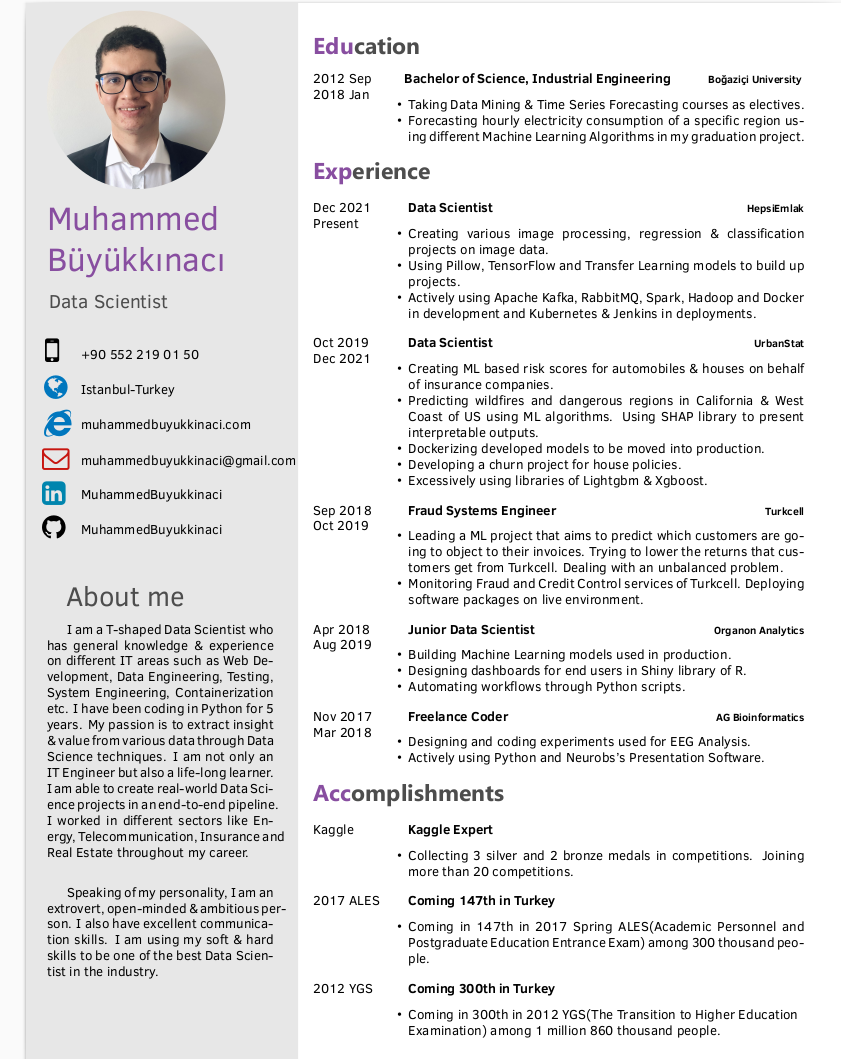
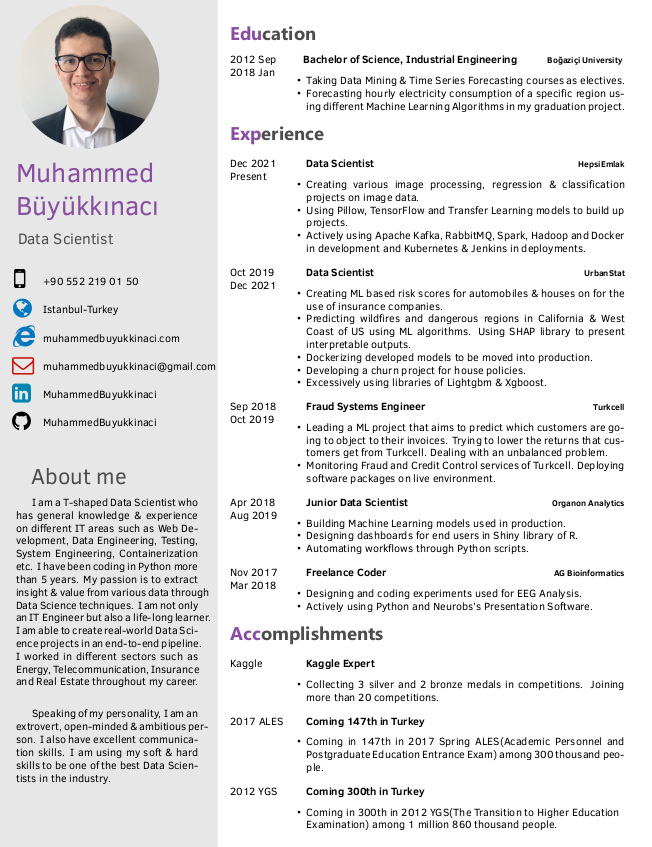
Some fixes for writing

diff --git a/DS_tex_file.tex b/DS_tex_file.tex
@@ -26,7 +26,7 @@
 		\textbf{~~~~~Scikit-~~~~~~}\\\textbf{~~~Learn~~~},
 		\textbf{~~~Django~~~~},
 		\textbf{~~~~PyTest~~~~},
-        \textbf{~~XGBoost~~},
+        \textbf{~~Xgboost~~},
         \textbf{~~~~Lightgbm~~~~}
     }
 }
@@ -75,9 +75,9 @@
 \cvmail{muhammedbuyukkinaci@gmail.com} % Email address
 
 \aboutme{
-I am a T-shaped Data Scientist who has general knowledge \& experience on different IT areas such as Web Development, Data Engineering, Testing, System Engineering, Containerization etc. I have been coding in Python for 5 years. My passion is to extract insight \& value from various data through Data Science techniques. I am not only an IT Engineer but also a life-long learner. I am able to create real-world Data Science projects in an end-to-end pipeline. I worked in different sectors like Energy, Telecommunication, Insurance and Real Estate throughout my career. \newline
+I am a T-shaped Data Scientist who has general knowledge \& experience on different IT areas such as Web Development, Data Engineering, Testing, System Engineering, Containerization etc. I have been coding in Python more than 5 years. My passion is to extract insight \& value from various data through Data Science techniques. I am not only an IT Engineer but also a life-long learner. I am able to create real-world Data Science projects in an end-to-end pipeline. I worked in different sectors such as Energy, Telecommunication, Insurance and Real Estate throughout my career. \newline
 
-Speaking of my personality, I am an extrovert, open-minded \& ambitious person. I also have excellent communication skills. I am using my soft \& hard skills to be one of the best Data Scientist in the industry.
+Speaking of my personality, I am an extrovert, open-minded \& ambitious person. I also have excellent communication skills. I am using my soft \& hard skills to be one of the best Data Scientists in the industry.
 }
 
 % .
@@ -137,7 +137,7 @@ Speaking of my personality, I am an extrovert, open-minded \& ambitious person. 
 		{\href{https://www.urbanstat.com/}{\textbf{UrbanStat}}}
 		{}
 		{\begin{itemize}
-			\item Creating ML based risk scores for automobiles \& houses on behalf of insurance companies.
+			\item Creating ML based risk scores for automobiles \& houses on for the use of insurance companies.
 			\item Predicting wildfires and dangerous regions in California \& West Coast of US using ML algorithms. Using SHAP library to present interpretable outputs.
 			\item Dockerizing developed models to be moved into production.
 			\item Developing a churn project for house policies.
@@ -255,7 +255,7 @@ Speaking of my personality, I am an extrovert, open-minded \& ambitious person. 
 	{
 		{\begin{itemize}
 				\item Building up an LSTM model to predict price volatility on 4-hourly Bitcoin data.
-				\item Obtaining relative signal on whether to trade or not.
+				\item Obtaining a fractional important signal on trading.
 		\end{itemize}}
 	}
 	\\
@@ -354,7 +354,7 @@ Speaking of my personality, I am an extrovert, open-minded \& ambitious person. 
 	{
 		{\begin{itemize}
 				\item Completing a 12-hours Big Data Course on Udemy.
-				\item Having a general knowledge on Apache Kafka, Hadoop, Spark and NoSQL technologies.
+				\item Having a general knowledge on Apache Kafka, Hadoop, Spark and other NoSQL technologies.
 				\item Listing my learnings on Github.
 		\end{itemize}}
 	}

diff --git a/README.md b/README.md
@@ -2,10 +2,9 @@
 
 20 Seconds CV for data scientists. It includes a photo in its sidebar.
 
-![alt text](https://github.com/MuhammedBuyukkinaci/Data-Scientist-LaTeX-Resume-with-Photo/blob/master/resume_with_photo_ss1.png) 
+![plot](./resume_with_photo_ss1.png)
 
-![alt text](https://github.com/MuhammedBuyukkinaci/Data-Scientist-LaTeX-Resume-with-Photo/blob/master/resume_with_photo_ss2.png) 
-
+![plot](./resume_with_photo_ss2.png)
 
 # References
 
